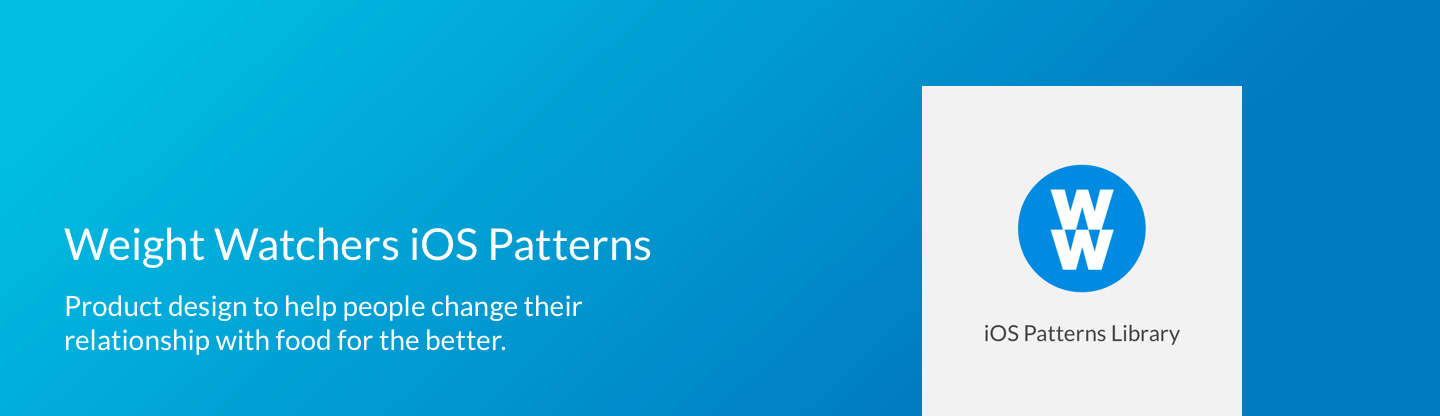
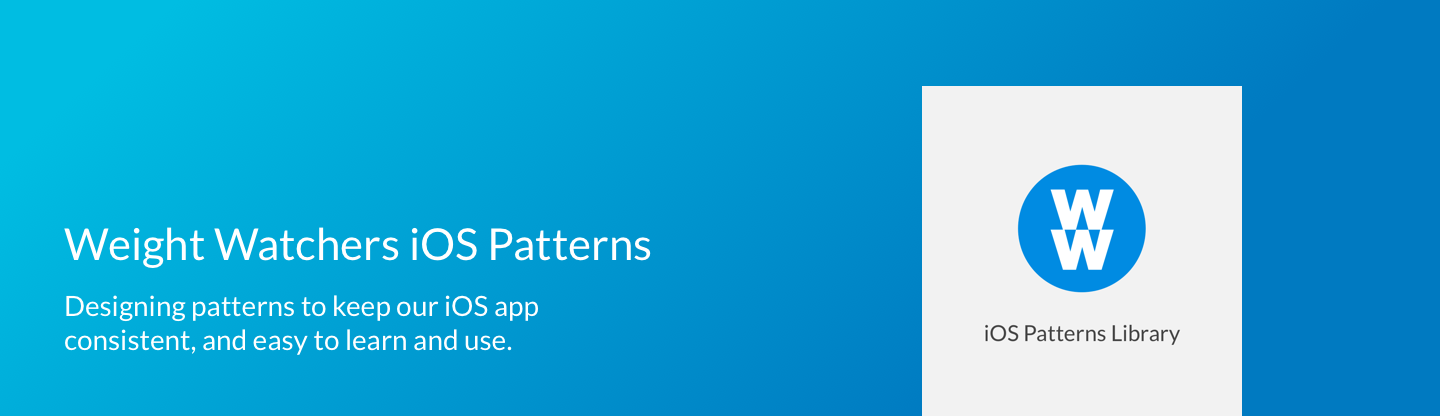
updating language for park slope and consistency hero, adding wwstyleguide link

Changed region(s): [[0.0312, 0.6875, 0.4062, 0.8438]]

diff --git a/ww.html b/ww.html
@@ -122,6 +122,19 @@
           <div class="row">
             <div class="3u">
                   <section>
+                    <a class="image feature nobackground keepsmall"><img src="img/work/ww/wellogy-logo.jpg" alt="" /></a>
+                  </section>
+              </div>
+              <div class="9u">
+                    <section>
+                      <p> <strong>Park Slope Learning Lab (in progress)</strong><br/> Rethinking the Weight Watchers in person and online experiences and how they work together.<br/><br/>I can't share much about this project here but would love to chat more in person.</p>
+                    </section>
+              </div>
+          </div>
+
+          <div class="row">
+            <div class="3u">
+                  <section>
                     <a href="ww-consistency.html" class="image feature nobackground keepsmall"><img class="" src="img/work/ww/patterns-logo.png" alt="" /></a>
                   </section>
               </div>
@@ -136,18 +149,7 @@
               </div>
           </div>
 
-          <div class="row">
-            <div class="3u">
-                  <section>
-                    <a class="image feature nobackground keepsmall"><img src="img/work/ww/wellogy-logo.jpg" alt="" /></a>
-                  </section>
-              </div>
-              <div class="9u">
-                    <section>
-                      <p> <strong>Wellogy (in progress) for a new target audience</strong><br/> Rethinking the Weight Watchers meeting and online experience for a younger demographic (millennials).<br/><br/>I can't share much about this project here but would love to chat more in person.</p>
-                    </section>
-              </div>
-          </div>
+
 
         </section>
 

diff --git a/ww-consistency.html b/ww-consistency.html
@@ -61,9 +61,10 @@
               <li><a href="http://weightwatchers.com" target="_blank">Weight Watchers</a></li>
             </ul>
             <header>
-              <h3>My visual design partner</h3>
+              <h3>My visual design partners</h3>
             </header>
             <ul>
+              <li><a href="https://www.linkedin.com/in/randyberinger/" target="_blank">Randy Beringer</a></li>
               <li><a href="https://www.linkedin.com/in/shirleymorales/" target="_blank">Shirley Morales</a></li>
             </ul>
           </section>
@@ -93,6 +94,10 @@
             <p>
               I design our patterns for our iOS app, and then work with other designers to adapt the patterns for Android and web.
             </p>
+            <ul class="buttons">
+                  <li class="button-li"><a href="https://wwstyleguide.com" target="_blank" class="button special">Visit our Live Styleguide Site</a></li>
+            </ul>
+            <br/>
           </section>
 
           <section>
